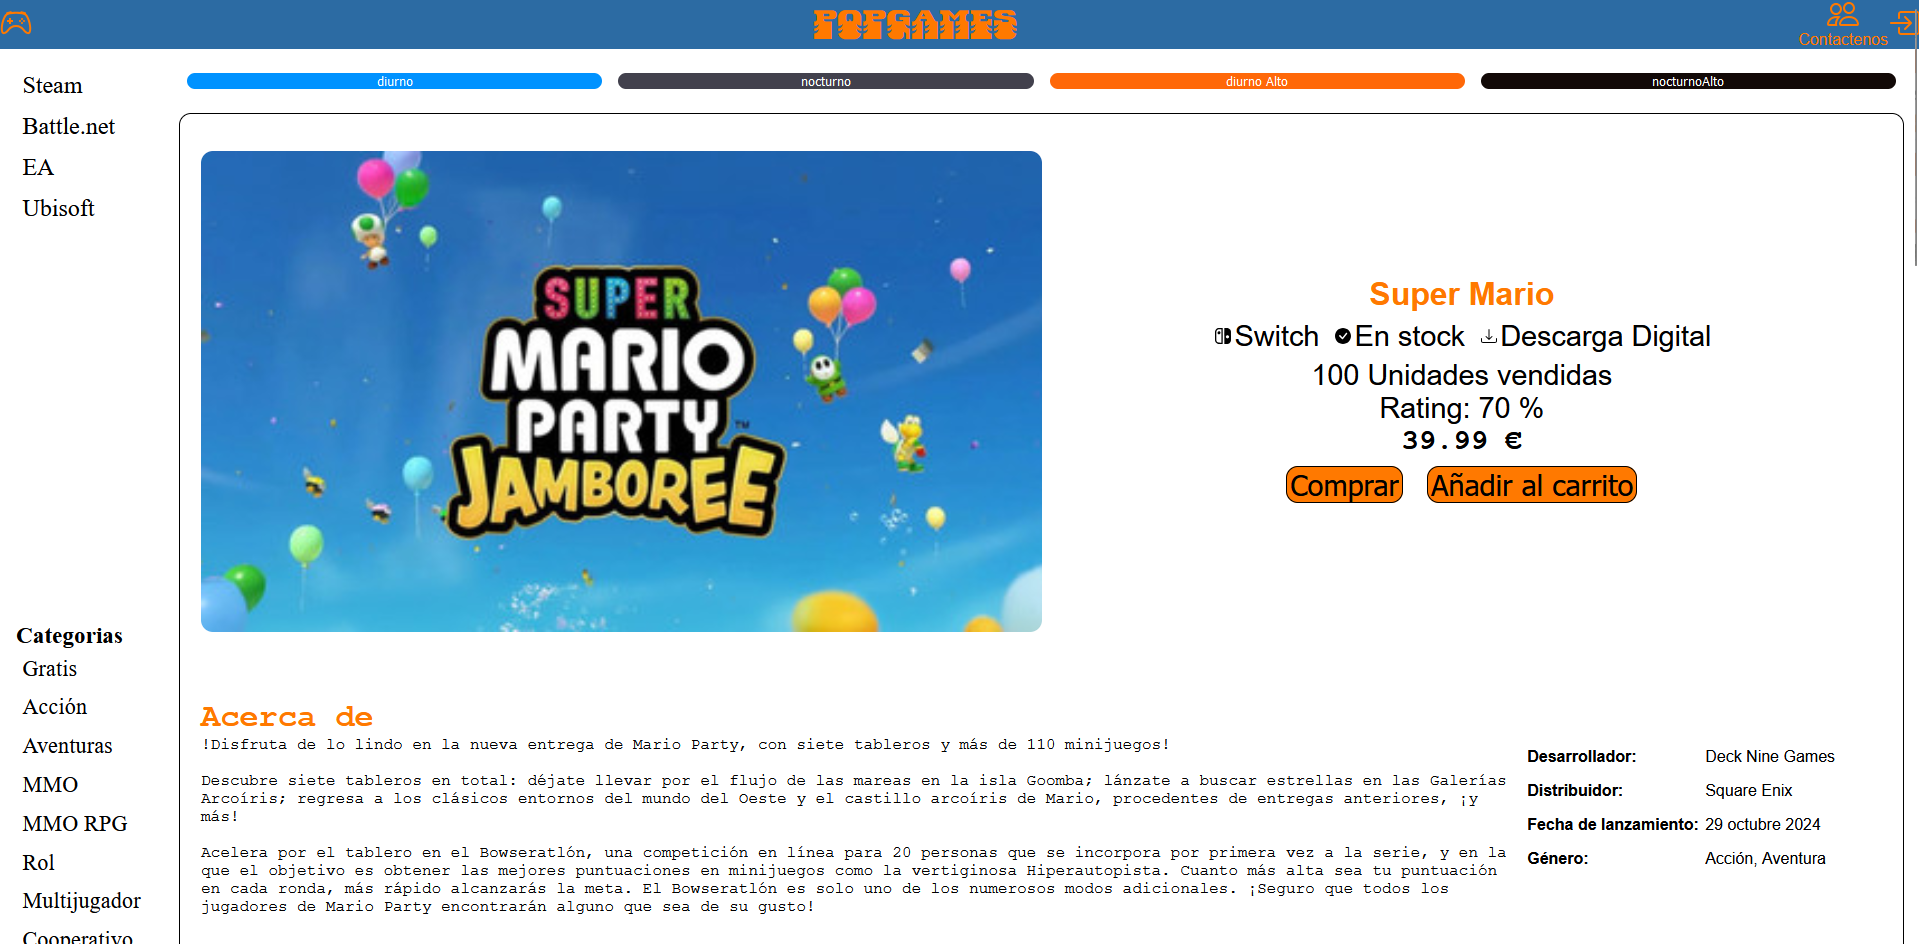
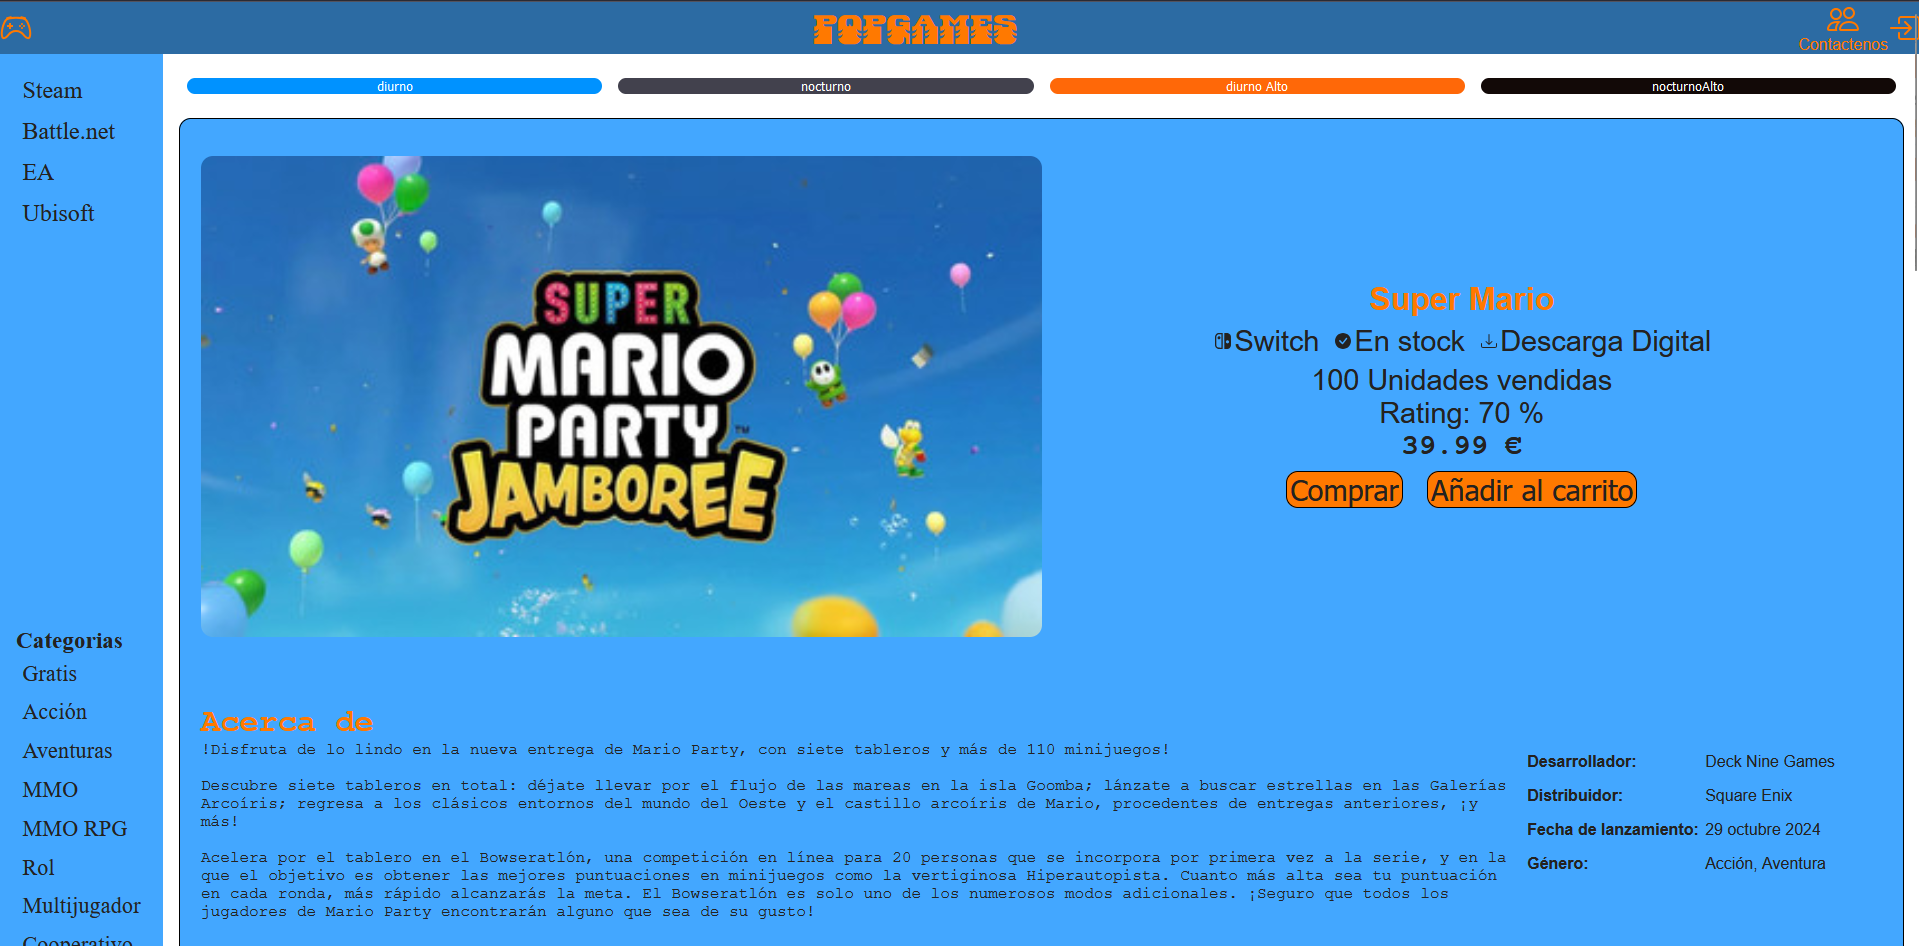
Corregido

diff --git a/css/style.css b/css/style.css
@@ -1,36 +1,36 @@
 :root {
   --color-bar-primario: #2C6BA3;
-  --color-nav-aside: #fff;
-  --color-producto: #fff;
+  --color-nav-aside: #ffffff;
+  --color-producto: #ffffff;
   --color-enfasis:  #ff7900;
-  --color-fondo: #fff;
+  --color-fondo: #ffffff;
   --color-texto:#000000;
 }
 .diurno {
-    --color-bar-primario: #2C6BA3;
-    --color-nav-aside: #fff;
-    --color-producto: #fff;
-    --color-enfasis:  #ff7900;
-    --color-fondo: #fff;
-    --color-texto:#000000;
-}
+  --color-bar-primario: #2C6BA3;
+  --color-nav-aside: #43a7ff;
+  --color-producto: #43a7ff;
+  --color-enfasis:  #ff7900;
+  --color-fondo: #ffffff;
+  --color-texto:#000000;
 
+}
 .nocturno {
     --color-bar-primario: rgba(66, 65, 77, 1);
     --color-nav-aside: rgba(66, 65, 77, 1);
     --color-producto: rgba(66, 65, 77, 1);
     --color-enfasis:  #ff7900;
-    --color-fondo: rgb(43, 42, 51);
-    --color-texto: #fff;
+    --color-fondo: #000000;
+    --color-texto: #ffffff;
 }
 
 .diurno-alto {
-    --color-bar-primario: #2C6BA3;
-    --color-nav-aside: #43a7ff;
-    --color-producto: #43a7ff;
-    --color-enfasis:  #ff7900;
-    --color-fondo: #fff;
-    --color-texto:#242220;
+  --color-bar-primario: #2C6BA3;
+  --color-nav-aside: #ffffff;
+  --color-producto: #ffffff;
+  --color-enfasis:  #ff7900;
+  --color-fondo: #ffffff;
+  --color-texto:#000000;
 }
 
 .nocturno-alto {
@@ -170,22 +170,6 @@ section {
   grid-template-columns: 1fr 1fr 1fr 1fr;
   color: #fff;
 }
-.diuBut {
-  background-color: #0092ff;
-  color: var(--color-general);
-}
-.nocBut {
-  background-color: rgba(66, 65, 77, 1);
-  color: var(--color-general);
-}
-.diuABut {
-  background-color: #ff6808;
-  color: var(--color-general);
-}
-.nocABut {
-  background-color: #120907;
-  color: var(--color-general);
-}
 
 article {
   /*Juego*/
@@ -273,6 +257,14 @@ grid-template-columns:1fr;
 width: 100%;
 height: 100%;
 }
+select{
+padding: 0.5rem;
+border: 1px;
+font-size: 1.5rem;
+background:  var(--color-bar-primario);
+color:  var(--color-enfasis);
+}
+
 video {
   max-width: 100%;
   max-height: 100%;

diff --git a/index.html b/index.html
@@ -26,6 +26,14 @@
         </div>
         <span>POPGAMES</span>
         <div class="headerIcon">
+            <select class="form-select" id="diaNoc">
+                <option onclick="diurnoNocturno()" value="diurno">Diurno</option>
+                <option onclick="diurnoNocturno()" value="nocturno">Nocturno</option>
+              </select>
+              <select class="form-select" id="contraste">
+                <option onclick="diurnoNocturno()" value="alto">Alto</option>
+                <option onclick="diurnoNocturno()" value="bajo">Bajo</option>
+              </select>
             <a href="#">Contactenos
                 <svg fill="currentColor" class="bi bi-people" viewBox="0 0 16 16">
                     <path
@@ -85,24 +93,7 @@
     </aside>
     <!---->
     <!--Main-->
-    <main>
-        <!--Seccion-Botones-Colores-->
-        <section class="sectColores">
-            <button class="diuBut" type="button" onclick="diurno()">
-                diurno
-            </button>
-            <button class="nocBut" type="button" onclick="nocturno()">
-                nocturno
-            </button>
-            <button class="diuABut" type="button" onclick="diurnoAlto()">
-                diurno Alto
-            </button>
-            <button class="nocABut" type="button" onclick="nocturnoAlto()">
-                nocturnoAlto
-            </button>
-        </section>
-        <!---->
-        
+    <main>    
         <section>
             <!--Juego-->
             <article>
@@ -258,7 +249,7 @@
             </div>
         </div>
     </footer>
-    <script src="./script.js"></script>
+    <script src="./js/script.js"></script>
     <!---->
 </body>
 

diff --git a/js/script.js b/js/script.js
@@ -1,0 +1,19 @@
+dia=document.getElementById("diaNoc");
+con=document.getElementById("contraste");
+
+function diurnoNocturno(){
+    if (dia.value=="diurno"){
+        if (con.value=="alto"){
+            document.body.setAttribute("class","diurno-alto");}
+        else if (con.value=="bajo") document.body.setAttribute("class","diurno");
+       }
+    else if (dia.value=="nocturno"){
+        if (con.value=="alto"){
+            document.body.setAttribute("class","nocturno-alto");
+        }
+        else if (con.value=="bajo") document.body.setAttribute("class","nocturno");
+    }   
+}
+
+
+

diff --git a/README.md b/README.md
@@ -11,9 +11,9 @@
  ## Modo diurno de alto contraste. 
 
 * Esta paleta contará con tres colores: un color muy claro para el fondo, un color muy oscuro para el texto y un color cercano al oscuro para énfasis.
-<p align="center"><img src="doc/diurnoAltocontraste.png" width=""/></p>
+<p align="center"><img src="doc/diurnoAlto.png" width=""/></p>
 
- ## Modo nocturno de alto contraste. 
+ ## Modo nocturno de alto contraste.
 
 * Esta paleta contará con tres colores: un color muy oscuro para el fondo, un color muy claro para el texto y un color cercano al claro para énfasis.
 <p align="center"><img src="doc/nocturnoAltocontraste.png" width=""/></p>
